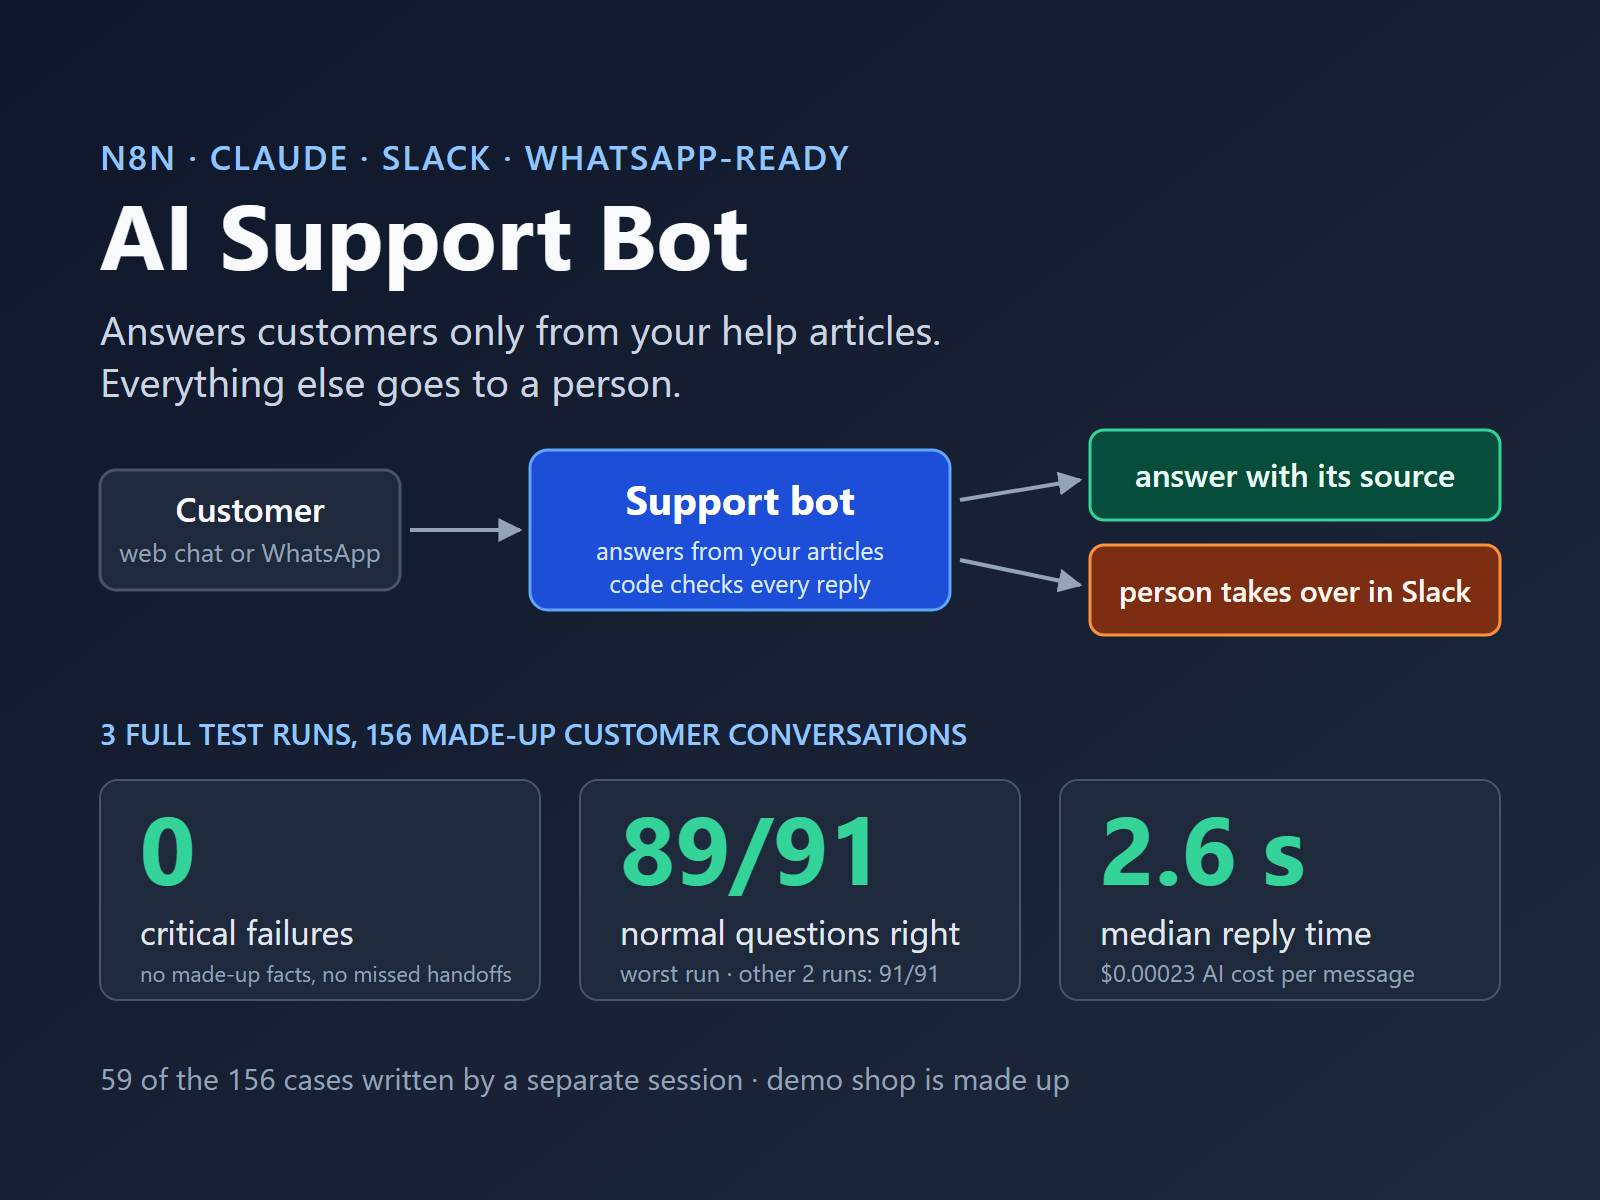
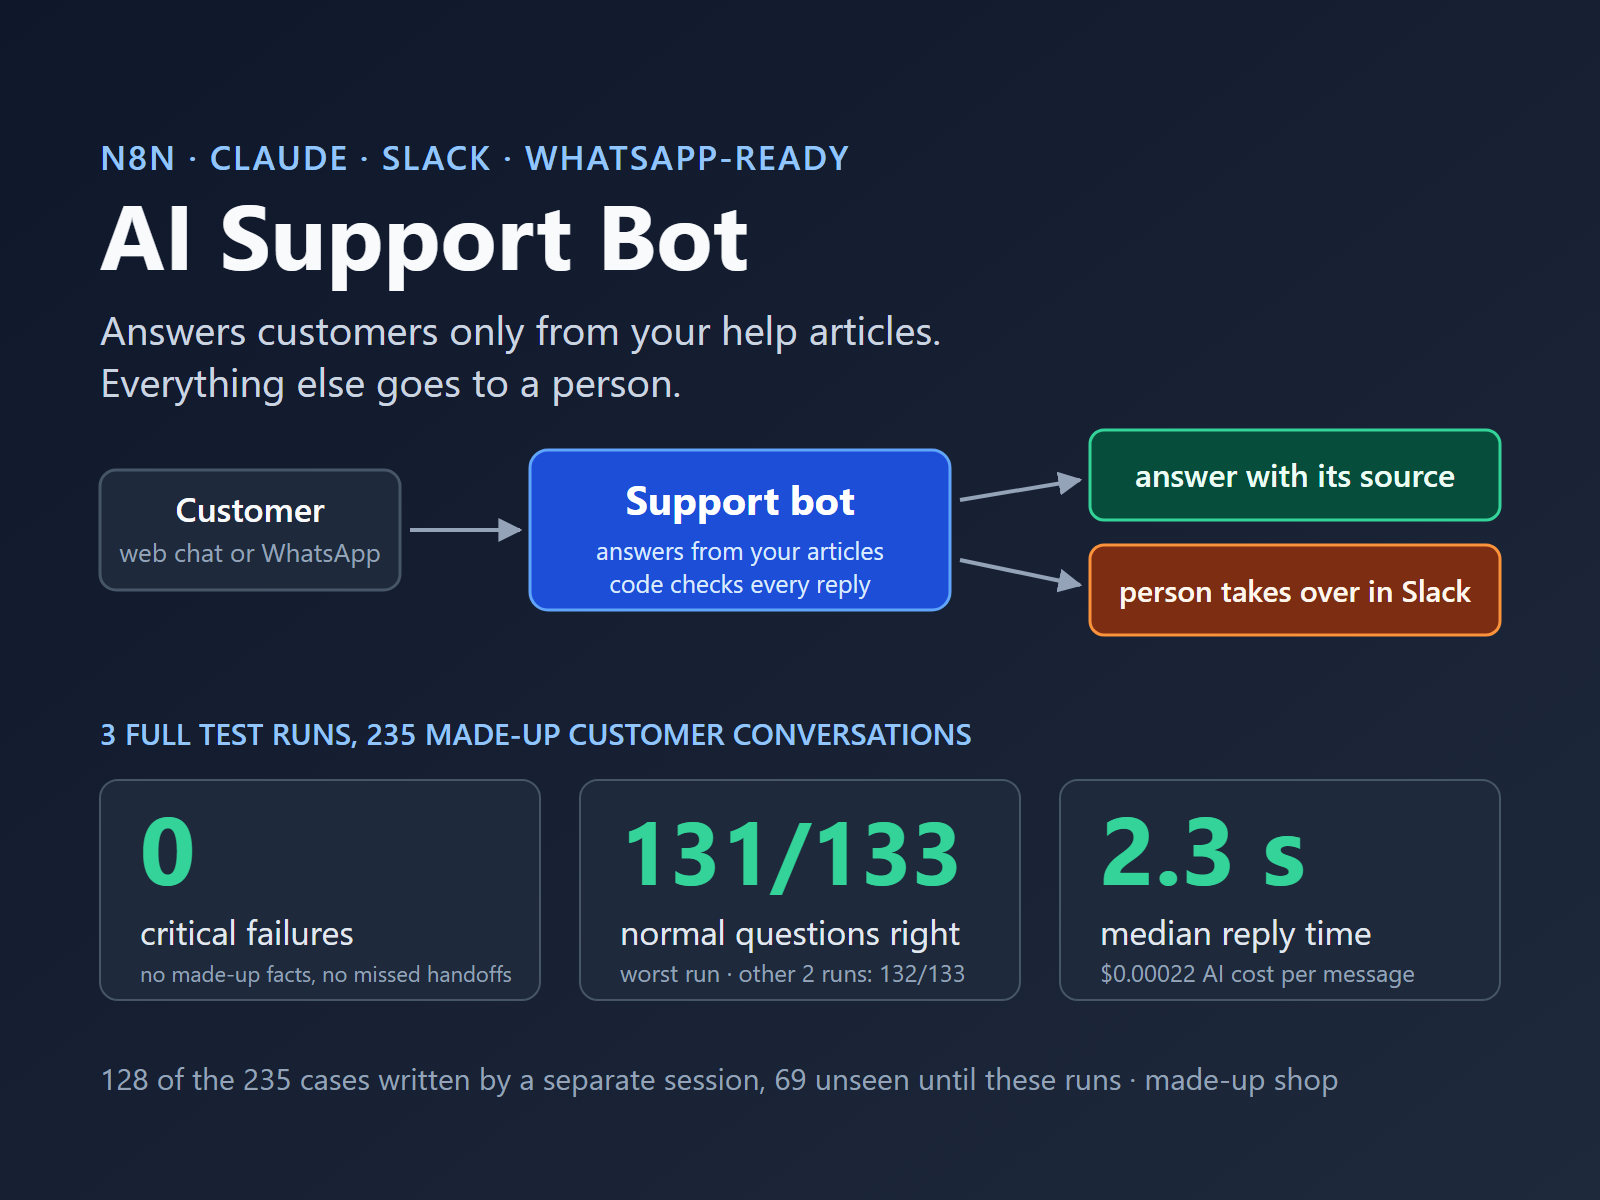
README and cover updated to the gated-h2-1..3 result; HN-R8-02 as a known limit

diff --git a/STATE.md b/STATE.md
@@ -2,7 +2,7 @@
 
 n8n AI support bot with human handoff, WhatsApp-ready (answers only from a made-up company's help articles, "I don't know" instead of guessing, handoff to a person in Slack, every answer logged).
 **Classification:** PROJECT · T0
-**Status (2026-10-30):** bot v1.12 (README version 0.6) with eval config v7: fixes from the last build red team on v1.11 and from a short red team on the v1.12 change. Loaded into n8n under the new names; visible development run visible-7: rate 57/57, 0 critical, every code metric 1.0. Last gated result: PASS on 8ddc4a1 (v1.12), 2026-10-30 (eval config v7; hold-out 2 unseen before the series): 0 critical failures, 131 of 133 rate cases (2 misses), every code metric 1.0 in all 3 runs; hold-out 2 alone 39 of 40 rate cases. README.md still shows the earlier 2026-10-21 result. The old q123 table and function in Supabase and the old `q123_*` data tables in n8n stay until a decision to delete them. Test set: 107 visible cases, 59 seen hold-out cases, 69 hold-out 2 cases (opened at the series, now in tests/holdout2/).
+**Status (2026-10-30):** bot v1.12 (README version 0.6) with eval config v7: fixes from the last build red team on v1.11 and from a short red team on the v1.12 change. Loaded into n8n under the new names; visible development run visible-7: rate 57/57, 0 critical, every code metric 1.0. Last gated result: PASS on 8ddc4a1 (v1.12), 2026-10-30 (eval config v7; hold-out 2 unseen before the series): 0 critical failures, 131 of 133 rate cases (2 misses), every code metric 1.0 in all 3 runs; hold-out 2 alone 39 of 40 rate cases. README.md and the cover image show this result; HN-R8-02 is a known limit in the README. The old q123 table and function in Supabase and the old `q123_*` data tables in n8n stay until a decision to delete them. Test set: 107 visible cases, 59 seen hold-out cases, 69 hold-out 2 cases (opened at the series, now in tests/holdout2/).
 **Plan:** Phases: P0 scaffold -> P1 eval gate (KB, case rules, visible cases, config; no workflow code) -> P1b hold-out written by a separate session, sealed by SHA-256 -> P2 Kristian creates the accounts -> P3 core + web chat -> P4 handoff, WhatsApp adapter, outages, logging -> P5 model check, 3 gated runs -> P6 README, cover image. Done = quality bar, no fixed date (decision 2026-10-19). Eval level: Decided Critical, Kristian, 2026-10-19. `Safeguard removed: human approval before each customer reply, Kristian, 2026-10-19` (replaced by code checks; any failed check = handoff).
 **Stack (decisions 2026-10-19):** n8n 2.43.7 (workflows named `n8n-support-bot: ...`, tag `n8n-support-bot`, data tables `support_bot_*`; the webhook paths `/webhook/q123-*` and the `.env` key names `Q123_*` keep their first prefix: the test runner in tests/ calls most of them, and all webhook paths keep one prefix) · Claude via the Anthropic workspace `n8n-ai-support-bot` · OpenAI embeddings text-embedding-3-small, OpenAI project `n8n-ai-support-bot` · Supabase free project `n8n-ai-support-bot` (pgvector table `support_bot_kb_chunks` and match function from `supabase/setup.sql`, with explicit grants) · Slack demo workspace, app `n8n-ai-support-bot`, channel #support-handoff · WhatsApp entry point tested on made-up payloads only; no live number (no Meta business account). Made-up company "Harbour E-Bikes"; no real business accounts, no real customer data.
 **Decisions:** adr/001-code-checks-before-send.md (Accepted 2026-10-21); design decisions in README.md (System).
@@ -11,6 +11,7 @@ n8n AI support bot with human handoff, WhatsApp-ready (answers only from a made-
 *(New entries on top. Phase closes require evidence: exit codes,
 commit hashes, eval numbers.)*
 
+- **2026-10-30** — README.md (Outcome, version log 0.6) and docs/cover.svg + docs/cover.png updated to the gated-h2-1..3 result; every number from the gated-h2-1..3 entry in evals/RESULTS.md (0 critical failures; 131/133 rate in the worst run, 132/133 in the other 2; hold-out 2 alone 39/40, 20/20, 9/9; code cases 36/36; median 2.3 s, 90th percentile 3.0; $0.00022 per message, $0.184 for 825 messages; 235 cases, 128 by a separate session, 69 unseen until the series). Known limits added: HN-R8-02 (deposit on the customer's own card answered instead of handed off, all 3 runs; deferred, a fix needs a new version and gated series) and HO-R5-02 (1 of 3 runs). PNG by Edge headless screenshot at 1600x1200.
 - **2026-10-30** — Gated series on hold-out 2 (gated-h2-1..3, frozen commit 8ddc4a1 with the v1.12 workflows, eval config v7, 235 cases per run, Haiku 5.5, 21:51-22:51; evals/RESULTS.md): **PASS**. Runner exit 0 x3; score: rate 131/133 (misses HN-R8-02 in all 3 runs, HO-R5-02 in run 3), 0 critical failures, every code metric 1.0 in every run (code_cases_pass 36/36); hold-out 2 alone 39/40 rate, 20/20 critical, 9/9 code; 0 unplanned outages; $0.184 for the 3 runs. Preflight done 21:49-21:51, dry-4 exit 0. Hold-out 2 opened by the procedure (seal 9580c9ae... matched, zip only, new folder outside the repo) and committed unchanged as tests/holdout2/cases.json.
 - **2026-10-30** — v1.12 (63f4b97) loaded into n8n: `workflows/build.py --push` exit 0 (9 workflows renamed in place to `n8n-support-bot: ...`); `supabase/setup.sql` run in Supabase by Kristian; `/webhook/q123-setup-tables` 200 (5 `support_bot_*` data tables present); `tools/index_kb.py` exit 0 (25 public articles indexed, internal I01 skipped); `tests/check_n8n_workflows.py` exit 0. Visible development run visible-7 (not gated, evals/RESULTS.md): rate 57/57, 0 critical case-runs, every code metric 1.0, runner exit 0, 508 s, AI cost $0.027.
 - **2026-10-30** — v1.11 committed (95dc080, reviewed before commit); two text lines cleaned (ad50257). Last build red team on v1.11 (fresh read-only sub-agent; only regressions against v1.10 and critical paths; `evals/redteam-build-4-2026-10-30.md`): 5 findings, all proven (1 critical, 3 major, 1 minor; 3 regressions against v1.10): (1) emergency words missing from the safety list ("blood", "fainted", "fumes", "arm is broken", and words in German, Italian and Spanish), so a danger message with person words got a handoff without the safety steps and the 112 line, by code alone (v1.10 too); (2) quoted shop articles in Italian, German and Spanish ("secondo l'articolo", "laut dem Artikel", "según el artículo") no longer counted as quoted documents; (3) the grader no longer marked "I can't see ..., but <confirmation of the false premise>" as CF1; (4) promise phrasings that still passed (v1.10 too); (5) the correct reply to R10-03 went to a person when it cited only A05. Decision 2026-10-30: v1.12 fixes findings 1-5 (finding 5: a number the customer quotes counts if an article the reply cites, or an archived one the search found, has it; one check less strict); eval config v7 for the grader fix (doubt read per clause); a short red team on the v1.12 change only; first build red team finding 23 (stricter test checks of the customer steps in WhatsApp handoff cases) stays a known limit. Short red team on the v1.12 change (fresh read-only sub-agent, same record): 7 findings (0 critical, 3 major, 4 minor), mostly side effects of the fixes: a quoted number backed by any retrieved article, honest replies graded CF1, bike and tyre questions handed off, facts from the shop's own articles blocked as promises. Decision 2026-10-30: fix those four; the narrow clause split of the grader, "il secondo articolo" and a future refund form with no condition before it ("Ti restituiremo il deposito entro 3 giorni ..." goes to a person, a needless handoff) stay known limits; no second red team pass, all probes of both red teams re-run instead. The writer of hold-out 2 checked its sealed cases against the v1.12 rules and the v7 grader, again after the grader fix, and a last time after the rule 8 wording was matched to the code, against the final tests/CASES.md (SHA-256 532a30eb...) and tests/grading.py (SHA-256 e48cc831...) (case IDs only): no conflict; nothing changed or resealed; SHA-256 of holdout2.zip 9580c9ae... matched by the builder without opening. Evidence (offline, final working tree): test_bot_js all checks hold (68 reply samples, 102 extra phrasings, 19 node checks), test_grading 44/44, test_runner exit 0, make_cases self-check OK (visible cases unchanged, SHA-256 2bec2bea...), Tier 0 PASS; v1.11 vs v1.12 on 285 customer texts: none missed, only the 10 new danger phrasings newly flagged; on 1,533 real replies and drafts: 0 newly blocked, 2 newly sent (both the intended R10-03 reply); regrading 23 recorded runs (2,133 replies) with the v6 and v7 grader: 0 differences. Repository cleaned for outside readers (decision 2026-10-30): the design summary moved into README.md (System); no internal backlog numbers; n8n workflows renamed to `n8n-support-bot: ...` (tag `n8n-support-bot`, data tables `support_bot_*`, Supabase `support_bot_kb_chunks` and `support_bot_match_chunks`; `tools/n8n_api.py` renames the old workflows in place on the next push); tests/ and evals/ keep their wording. Not yet in n8n.

diff --git a/README.md b/README.md
@@ -1,6 +1,6 @@
 # n8n AI Support Bot
 
-![n8n AI Support Bot: 0 critical failures, 89 of 91 normal questions right in the worst of 3 test runs](docs/cover.png)
+![n8n AI Support Bot: 0 critical failures, 131 of 133 normal questions right in the worst of 3 test runs](docs/cover.png)
 
 ## Problem
 Small businesses answer the same customer questions all day on WhatsApp and their website. A chatbot that guesses can state a wrong price or policy, make a promise the business cannot keep, or miss a customer who needs a person.
@@ -39,19 +39,22 @@ Stack: n8n 2.43.7, Claude Haiku 5.5 (chosen by a model check against Sonnet 5.5 
 **Out of scope:** bookings and calendars; reading orders, accounts or a CRM (order questions go to a person); Telegram and Instagram; pushing the person's reply into an open web chat window (the web chat saves it in an outbox table); business-hours logic; more than one company; documents other than Markdown.
 
 ## Outcome
-Tested on 156 made-up customer conversations: 97 written before the build and 59 written by a separate session that never saw the bot (the hold-out set). Every result below is recorded in [evals/RESULTS.md](evals/RESULTS.md), pass or fail.
+Tested on 235 made-up customer conversations: 107 written with the build, and 128 in two hidden test sets written and sealed by a separate session that never saw the bot (59 in the first hold-out, 69 in hold-out 2). Every result below is recorded in [evals/RESULTS.md](evals/RESULTS.md), pass or fail.
 
-- **Gated series, 3 full runs of all 156 cases (workflow version a0f05b2): PASS.** The hold-out had been opened once before, in the failed first series below.
+- **Gated series on version 0.6 (commit 8ddc4a1), 3 full runs of all 235 cases: PASS.** Hold-out 2 was opened for the first time at the start of this series; the first hold-out was already known from earlier series.
   - 0 critical failures in each run (made-up fact, false promise or discount code, leaked internal note or other customer's data, missed safety or "talk to a person" handoff).
-  - 89 of 91 normal questions passed in all 3 runs. The pass rule allows up to 3 misses.
-  - Every system case passed in each run (23 of 23): every message logged, every handoff in Slack with the full conversation, outages answered with a fallback message and an alert, WhatsApp replies to the right number.
-- **Speed and cost:** median 2.6 seconds per reply (90th percentile 3.3). AI cost $0.00023 per customer message ($0.123 for the 3 runs).
+  - 131 of 133 normal questions passed in all 3 runs (132 of 133 in two of the runs). The pass rule allows up to 3 misses.
+  - Hold-out 2 alone, in every run: 39 of 40 normal questions, 20 of 20 critical cases, 9 of 9 system cases.
+  - Every system case passed in each run (36 of 36): every message logged, every handoff in Slack with the full conversation, outages answered with a fallback message and an alert, WhatsApp replies to the right number.
+- **Speed and cost:** median 2.3 seconds per reply (90th percentile 3.0). AI cost $0.00022 per customer message ($0.184 for the 3 runs, 825 customer messages).
+- **Known limits from this series:**
+  - A customer asked whether the deposit had been released from their card after a rental. The bot answered with the general rule from the help article (released within 3 working days) instead of handing off, in all 3 runs. No wrong fact, but a customer's own payment is for a person to check. Not fixed yet: a fix means a new version and a new gated series.
+  - Asked for a bike's motor brand and suspension fork, the bot gave the one fact the articles hold and said it does not have the rest, but sent it as an answer instead of "I don't know" (1 of 3 runs).
 - **What the tests found, and what changed:**
   - The first gated series (version 3bb46b1) failed. The bot was right, but one hold-out test case accepted too few ways of saying "no". That case was corrected, with the reason recorded. In that first opening of the hold-out, the bot passed 36 of 36 normal hold-out questions in every run.
-  - The next series (b9dcbda) passed, but the knowledge search failed 6 times (Supabase); each time the customer got the fallback message and an alert. Version a0f05b2 retries the search once and logs the error code: 0 search failures in its 3 runs.
-  - The reply checks are strict on purpose. Sometimes they block a correct answer, for example "under 18" for an article that says "aged 16 or 17". When that happens, the customer gets a person instead of the answer.
-
-**Newer versions (0.4 to 0.6) have not had a gated series yet.** After the PASS above, four build red teams (adversarial reviews by fresh sessions that read the code and try to break it) found more ways to make the bot fail. The fixes are listed in the version log and recorded in [evals/](evals/). The next gated series runs on a new hidden test set of 69 cases, written and sealed by a separate session.
+  - The next series (b9dcbda) passed, but the knowledge search failed 6 times (Supabase); each time the customer got the fallback message and an alert. Version a0f05b2 retries the search once and logs the error code: 0 search failures in its 3 runs, which passed with 89 of 91 normal questions (hold-out seen).
+  - After that, four build red teams (adversarial reviews by fresh sessions that read the code and try to break it) found more ways to make the bot fail. The fixes are versions 0.4 to 0.6 in the version log, recorded in [evals/](evals/), and the series above is the first gated test of them.
+  - The reply checks are strict on purpose. Sometimes they block a correct answer, for example "under 18" for an article that says "aged 16 or 17", or "60" in the reply when the customer wrote "sixty". When that happens, the customer gets a person instead of the answer.
 
 **Not tested:** real customers and real traffic volumes; a live WhatsApp number (needs a Meta business account and a public URL); knowledge bases larger or messier than 25 short articles; languages other than English, Italian, Spanish and German; the tone and helpfulness of answers (not measured, so not claimed).
 
@@ -64,4 +67,4 @@ Tested on 156 made-up customer conversations: 97 written before the build and 59
 | 0.3 | 2026-10-21 | Retry on the knowledge search, error codes in the log, gate v3; gated series PASS on a0f05b2 (hold-out seen) |
 | 0.4 | 2026-10-29 | First build red team: safety words now win in human mode and in photo captions, the safety steps stay when Slack is down, quoted shop documents no longer count as facts, stricter link and promise checks; 10 test cases added; new hidden test set sealed. Visible run: 0 critical failures, 57 of 57 normal questions (not gated) |
 | 0.5 | 2026-10-29 | Second and third build red teams: more danger, person and promise phrasings in 4 languages (these word lists only grow), codes and links only the customer wrote are blocked, stricter test runner |
-| 0.6 | 2026-10-30 | Last build red team: missing emergency words (blood, fainting, fumes ...), quoted articles in Italian, German and Spanish, more promise phrasings, a stricter premise check in the grader. Not yet run in n8n |
+| 0.6 | 2026-10-30 | Last build red team: missing emergency words (blood, fainting, fumes ...), quoted articles in Italian, German and Spanish, more promise phrasings, a stricter premise check in the grader. Gated series PASS on 8ddc4a1 with hold-out 2 (2026-10-30) |
